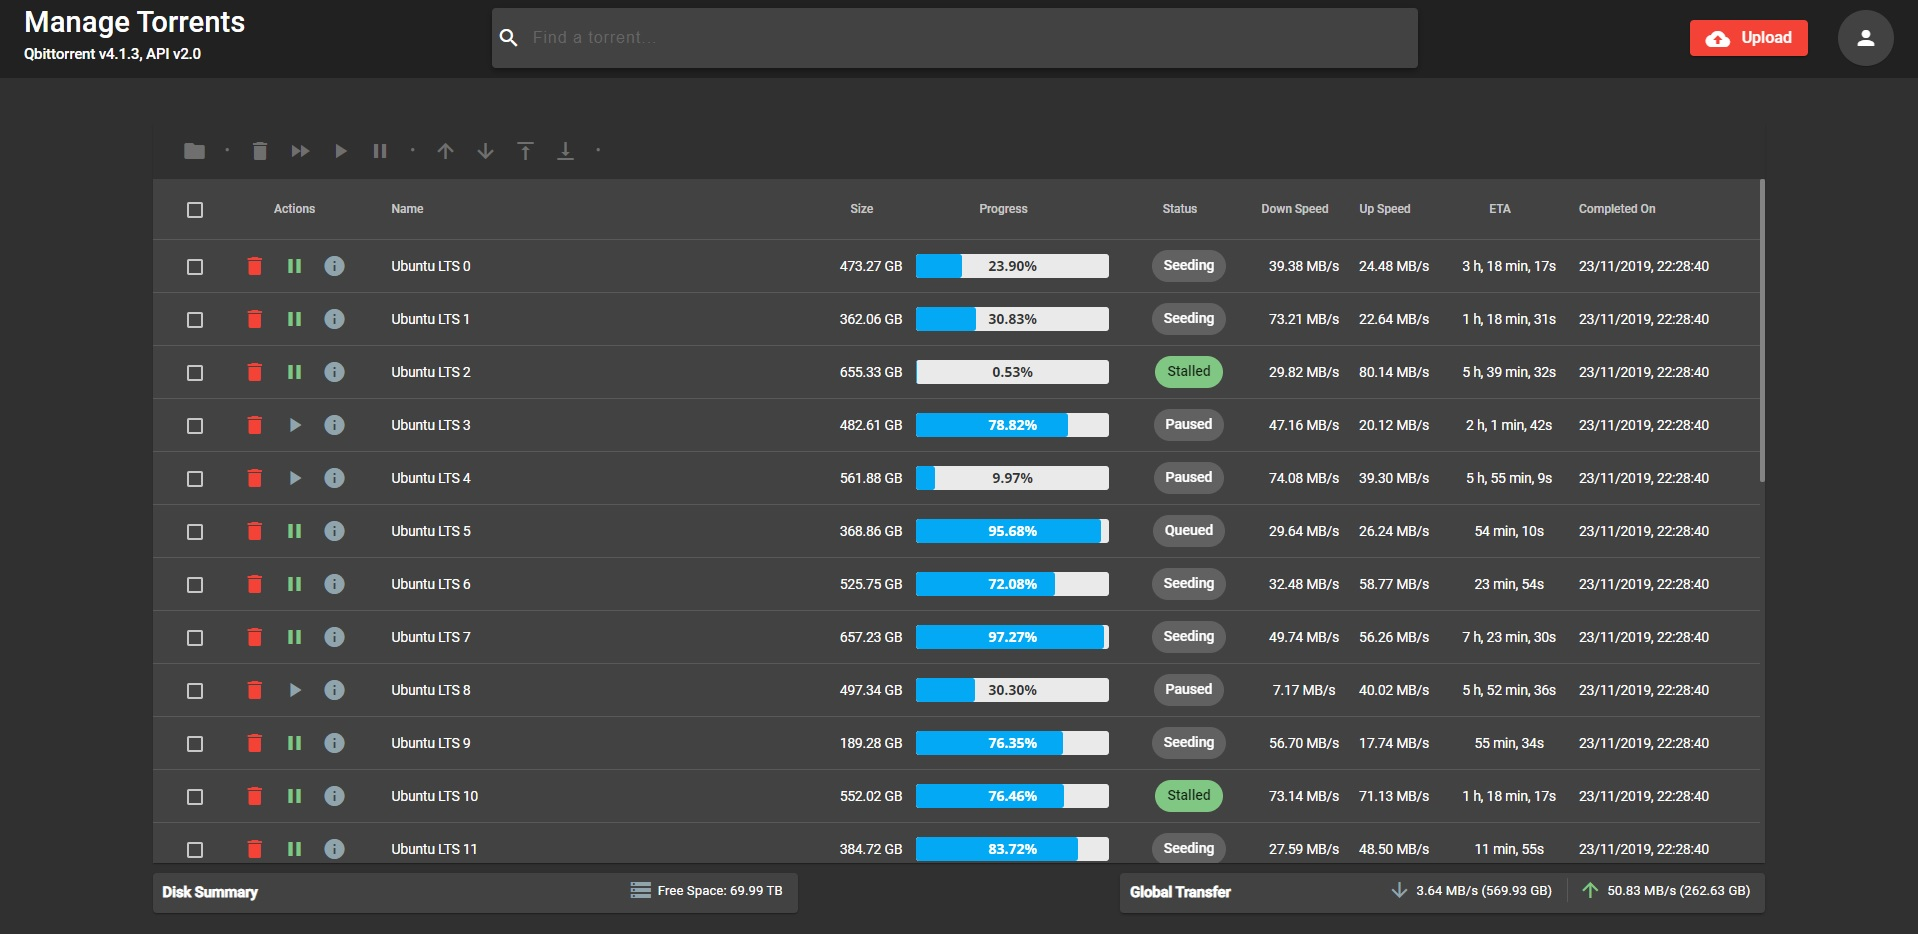
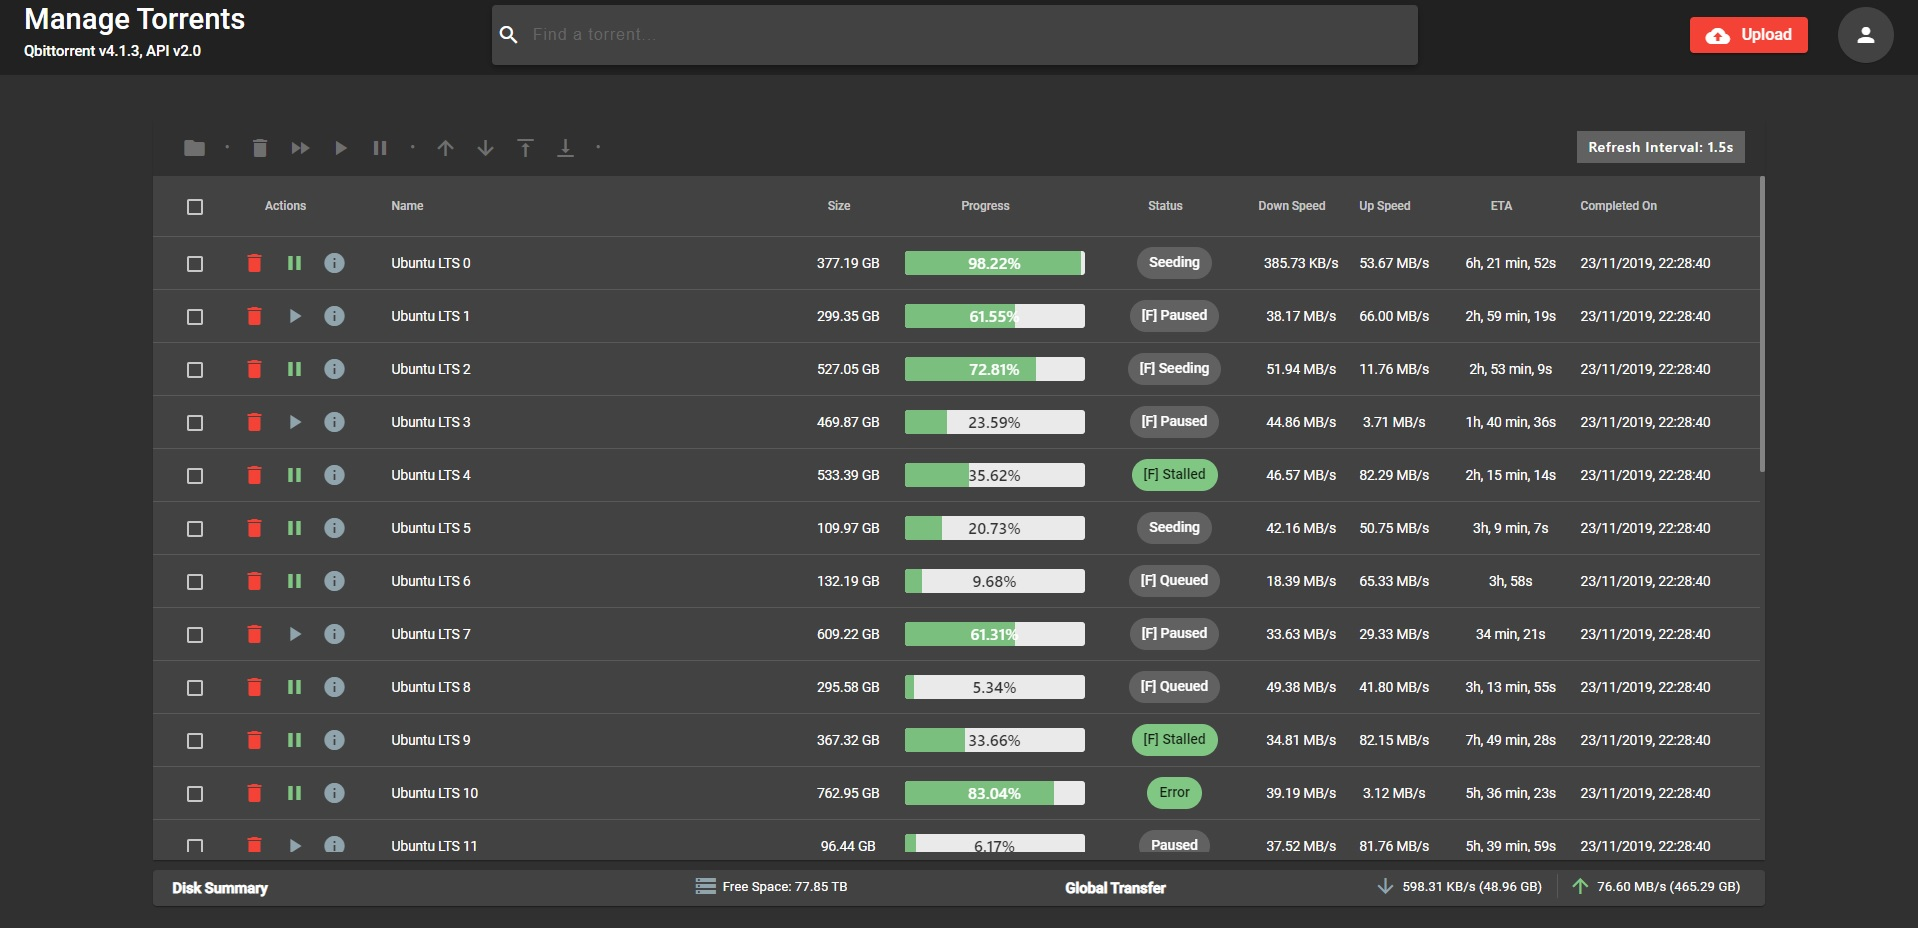
update images & readme

diff --git a/README.md b/README.md
@@ -1,21 +1,22 @@
-# Qbit Material WebUI <br/>[![Build Status](https://travis-ci.org/bill-ahmed/qbit-material-WebUI.svg?branch=master)](https://travis-ci.org/bill-ahmed/qbit-material-WebUI)
+# qBit MatUI <br/>[![Build Status](https://travis-ci.org/bill-ahmed/qbit-material-WebUI.svg?branch=master)](https://travis-ci.org/bill-ahmed/qbit-material-WebUI)
+
+<img src="builds/images/home_page_dark_shadow.jpg" alt="Home Page"/>
+
+<br/>
+<br/>
 
 A material-themed interface to the original [qBittorrent Web UI](https://github.com/qbittorrent/qBittorrent). This interface is more slimmed down, although still contains several features such as:
 
-* Adding/Deleting torrents
 * Bulk edit (pause, resume, delete, prioritize, and more)
 * Sorting by different metrics (name, size, date completed, etc.)
-* File System Navigation (choose where to save a torrent, create sub-folders, etc.)
 * See torrent contents _before_ downloading
+* File system navigation (choose where to save a torrent, create sub-folders, etc.)
 * Manage local & qBittorrent preferences
 * A fully material-themed UI (Light & Dark themes)
 * ... and more!
 
 ## Demo!
 A live demo is available here: https://qbit-material-webui-demo.herokuapp.com/.
-
-<img src="builds/images/home_page.jpg" alt="Home Page"/>
-
 
 ## Installation -- Replacing your existing qBittorrent Web UI
 This app is tested with **v4.1.5** and higher of qBittorrent, any lower version are not guaranteed to work.
